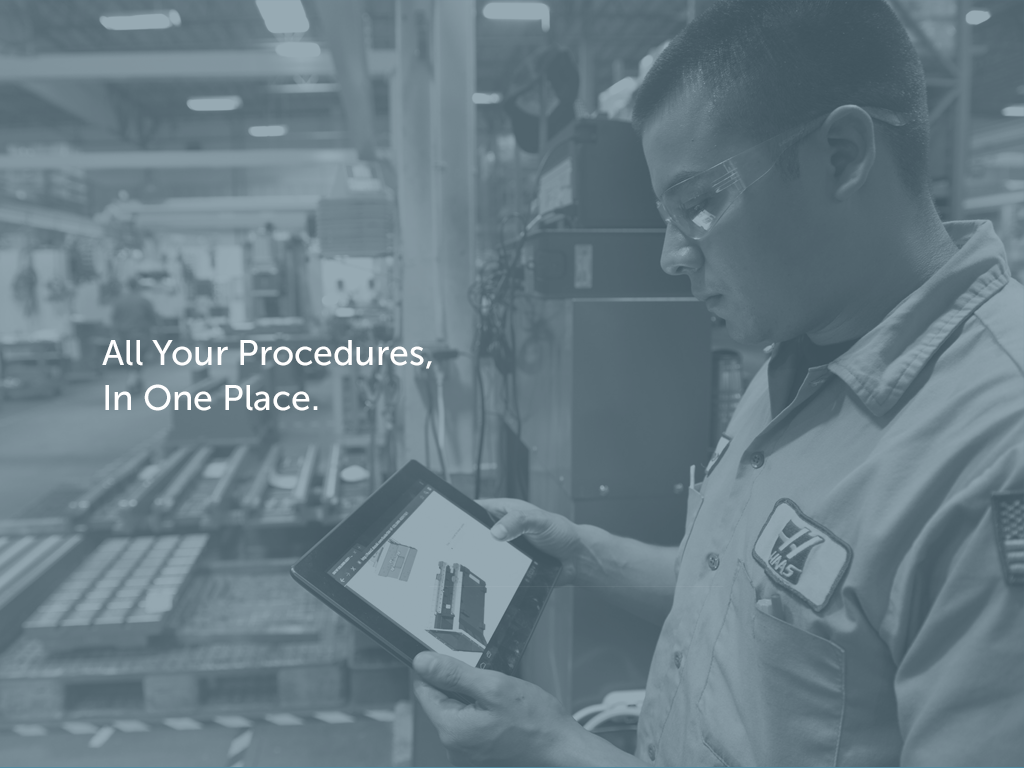
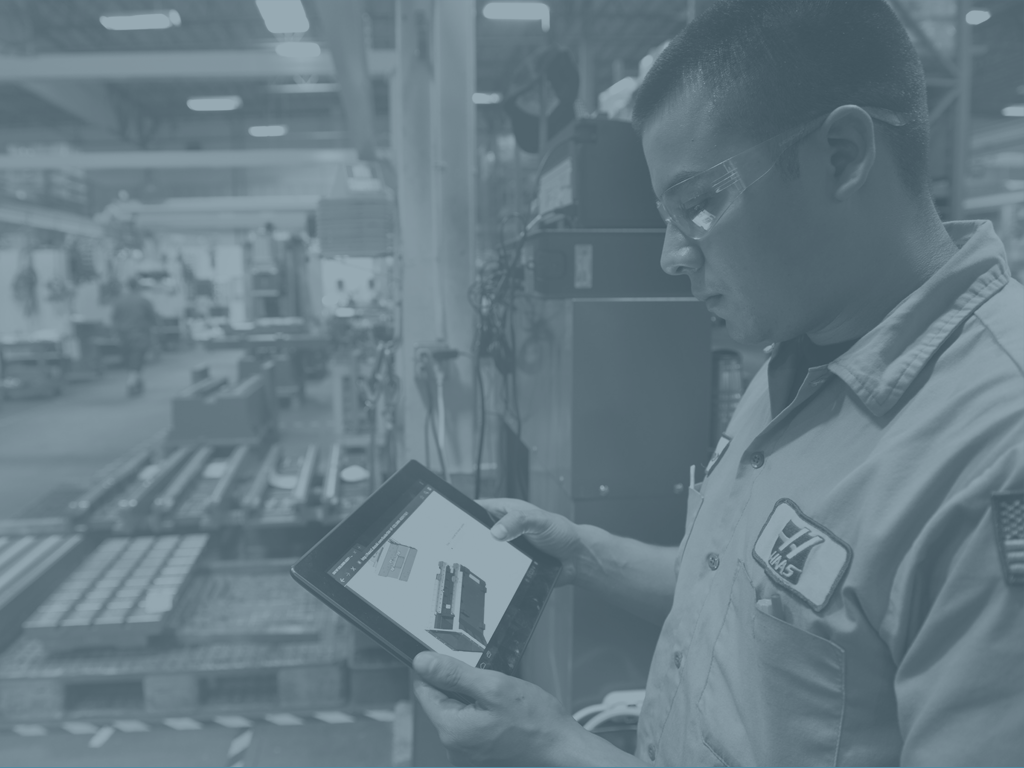
build 59 moved to fonts for slogan

Changed region(s): [[0.0938, 0.4375, 0.4062, 0.5312]]

diff --git a/Classes/DozukiSplashViewController.m b/Classes/DozukiSplashViewController.m
@@ -41,18 +41,26 @@
 #pragma mark - View lifecycle
 
 - (void)configureLabels {
-     self.dozukiSlogan.text = NSLocalizedString(@"Visual is better.", nil);
+     self.dozukiSlogan.text = NSLocalizedString(@"All Your Procedures In One Place.", nil);
      self.dozukiDescription.text = NSLocalizedString(@"A modern documentation platform for everything from work instructions to product support.", nil);
      self.getStarted.text = NSLocalizedString(@"Get Started", nil);
      self.getStarted.backgroundColor = [UIColor colorWithRed:0.87 green:0.25 blue:0.14 alpha:1.0];
      self.getStarted.layer.masksToBounds = YES;
      self.getStarted.layer.cornerRadius = 8.0;
-     self.dozukiSlogan.hidden = YES;
+     self.dozukiSlogan.hidden = NO;
      self.dozukiDescription.hidden = YES;
-     UIFont *font = [UIFont fontWithName:@"MuseoSans-500" size:17.0f];
-     self.getStarted.font = font;
+     UIFont *fontgs = nil;
+     UIFont *fontsl = nil;
+     if ([UIDevice currentDevice].userInterfaceIdiom == UIUserInterfaceIdiomPhone) {
+          fontsl = [UIFont fontWithName:@"MuseoSans-500" size:17.0f];
+          fontgs = [UIFont fontWithName:@"MuseoSans-500" size:17.0f];
+     } else {
+          fontsl = [UIFont fontWithName:@"MuseoSans-500" size:45.0f];
+          fontgs = [UIFont fontWithName:@"MuseoSans-500" size:31.0f];
 
-     
+     }
+     self.getStarted.font = fontgs;
+     self.dozukiSlogan.font = fontsl;
 }
 
 - (void)viewDidLoad {
